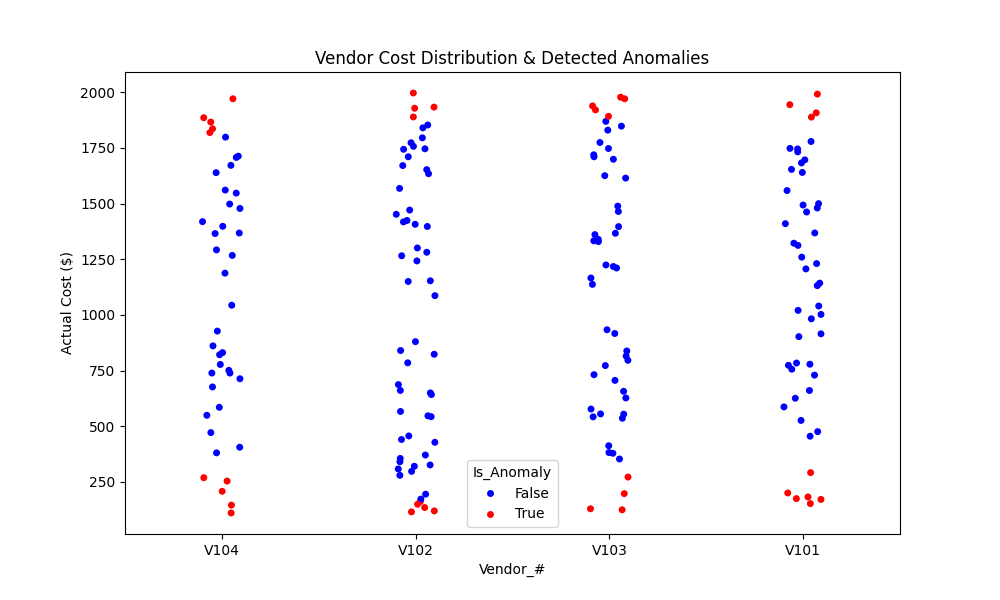
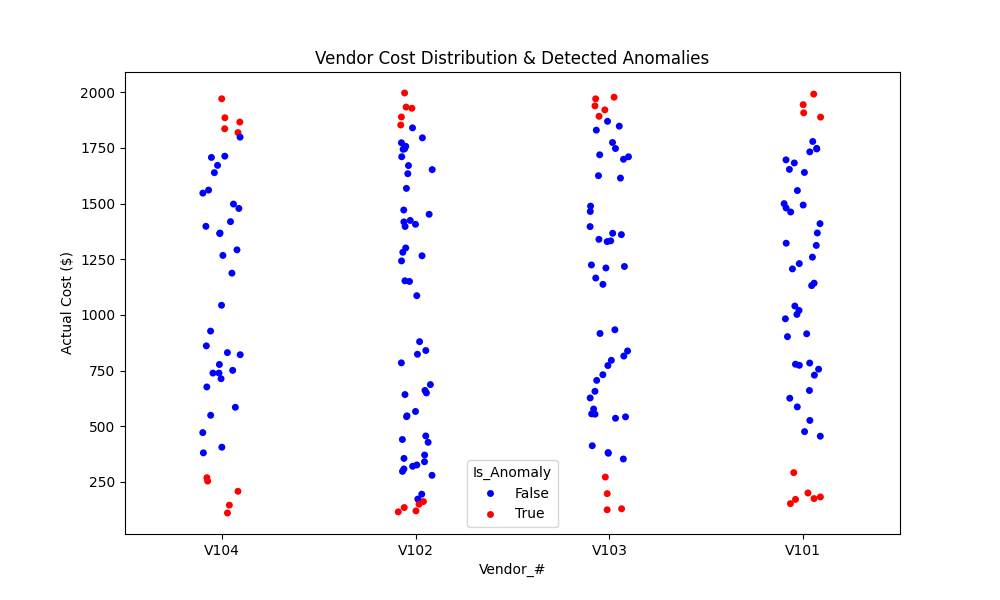
fixed some spelling errors

diff --git a/src/model.py b/src/model.py
@@ -15,7 +15,7 @@ import arviz as az
 import matplotlib.pyplot as plt
 import seaborn as sns
 
-def build_anomoly_model(df):
+def build_anomaly_model(df):
     
     vendors = df['Vendor_#'].astype('category')
     vendor_index = vendors.cat.codes.values
@@ -37,9 +37,9 @@ def build_anomoly_model(df):
 
     return trace, vendors.cat.categories
 
-def get_anomoly_scores(trace, df):
+def get_anomaly_scores(trace, df):
     # find prob that an actual cost is an outlier based on learned vendor paramaters
-    # transforms 'trace' into a simple 0-100% anomoly alert
+    # transforms 'trace' into a simple 0-100% anomaly alert
     
     #get learned means and std deviations for each vendor, store in 'trace' object
     mu_samples = trace.posterior['vendor_mu'].values.mean(axis=(0, 1))
@@ -96,8 +96,8 @@ if __name__== "__main__":
     df = triage_audit(df)
     
     # 2. Build the model (Bayesian Analysis)
-    trace, vendor_names = build_anomoly_model(df)
-    df = get_anomoly_scores(trace, df)
+    trace, vendor_names = build_anomaly_model(df)
+    df = get_anomaly_scores(trace, df)
 
     plot_anomalies(df, vendor_names)
 